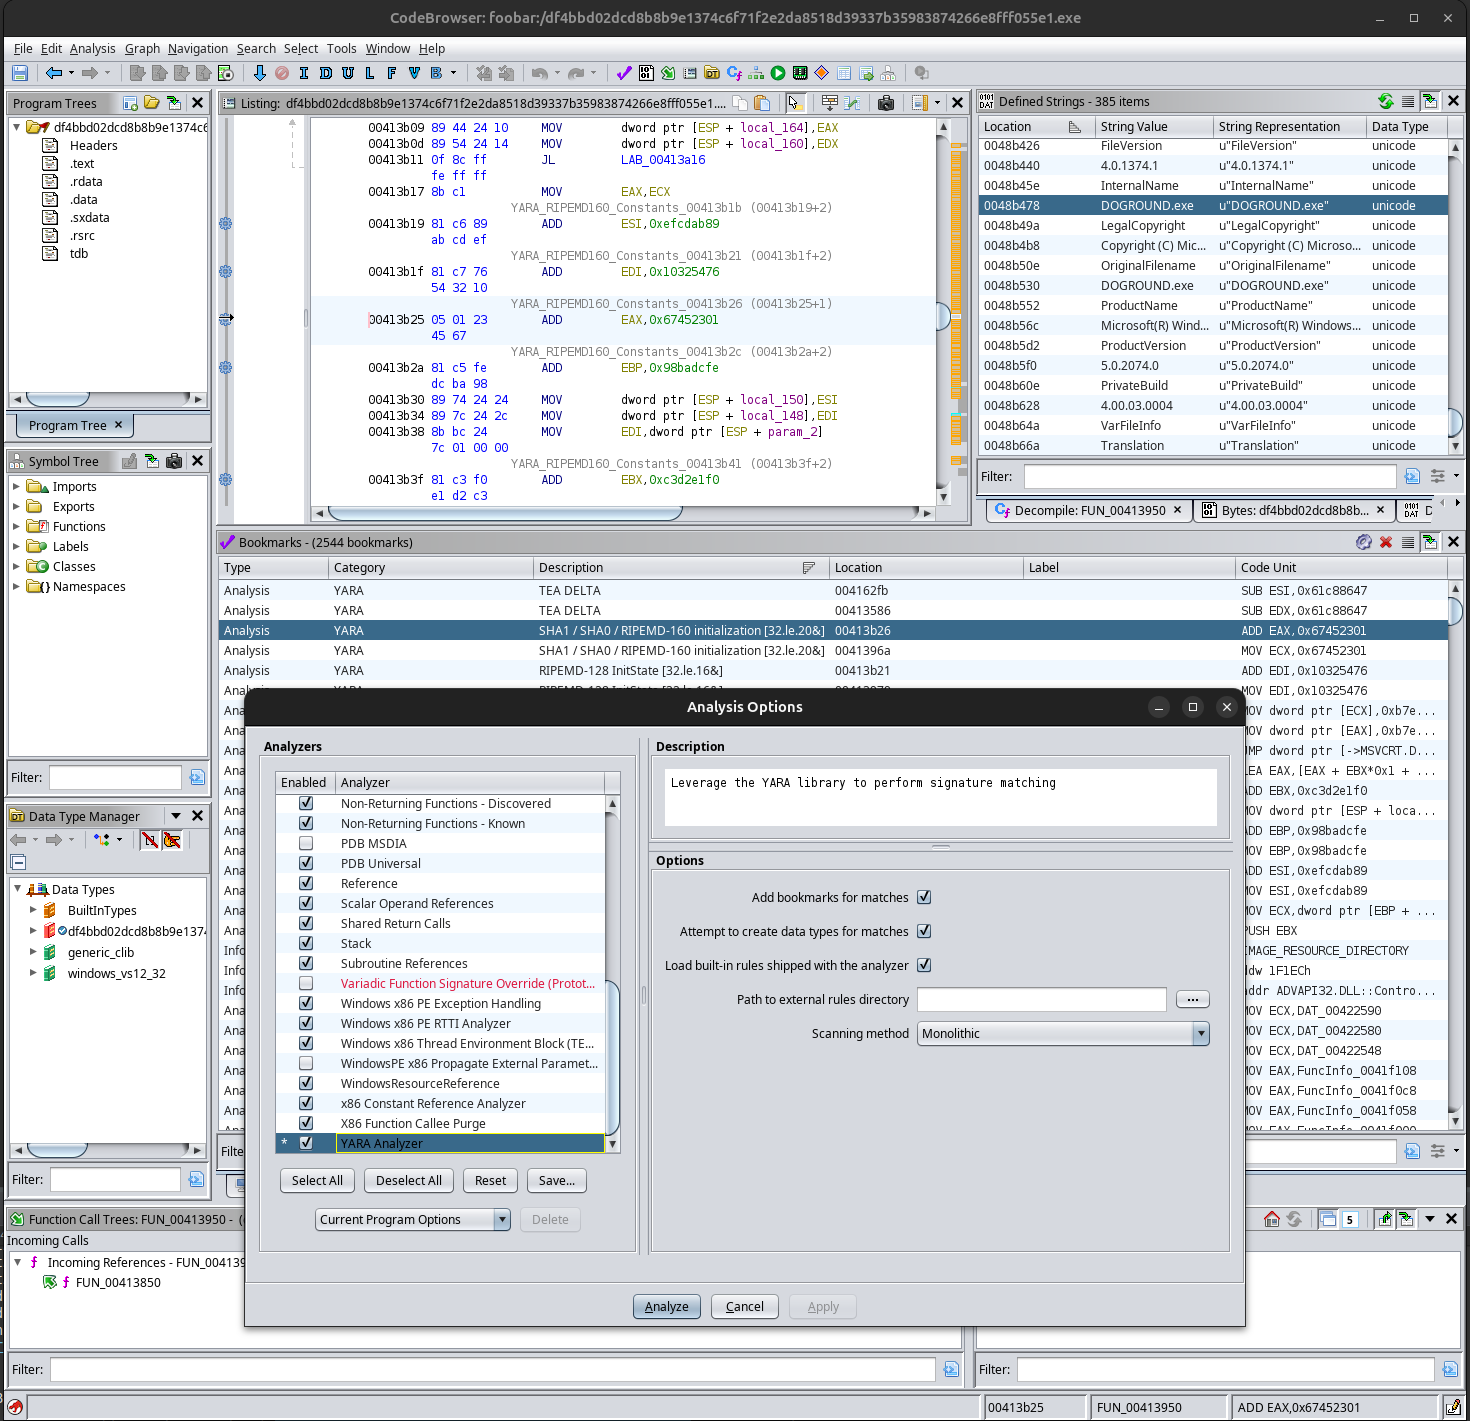
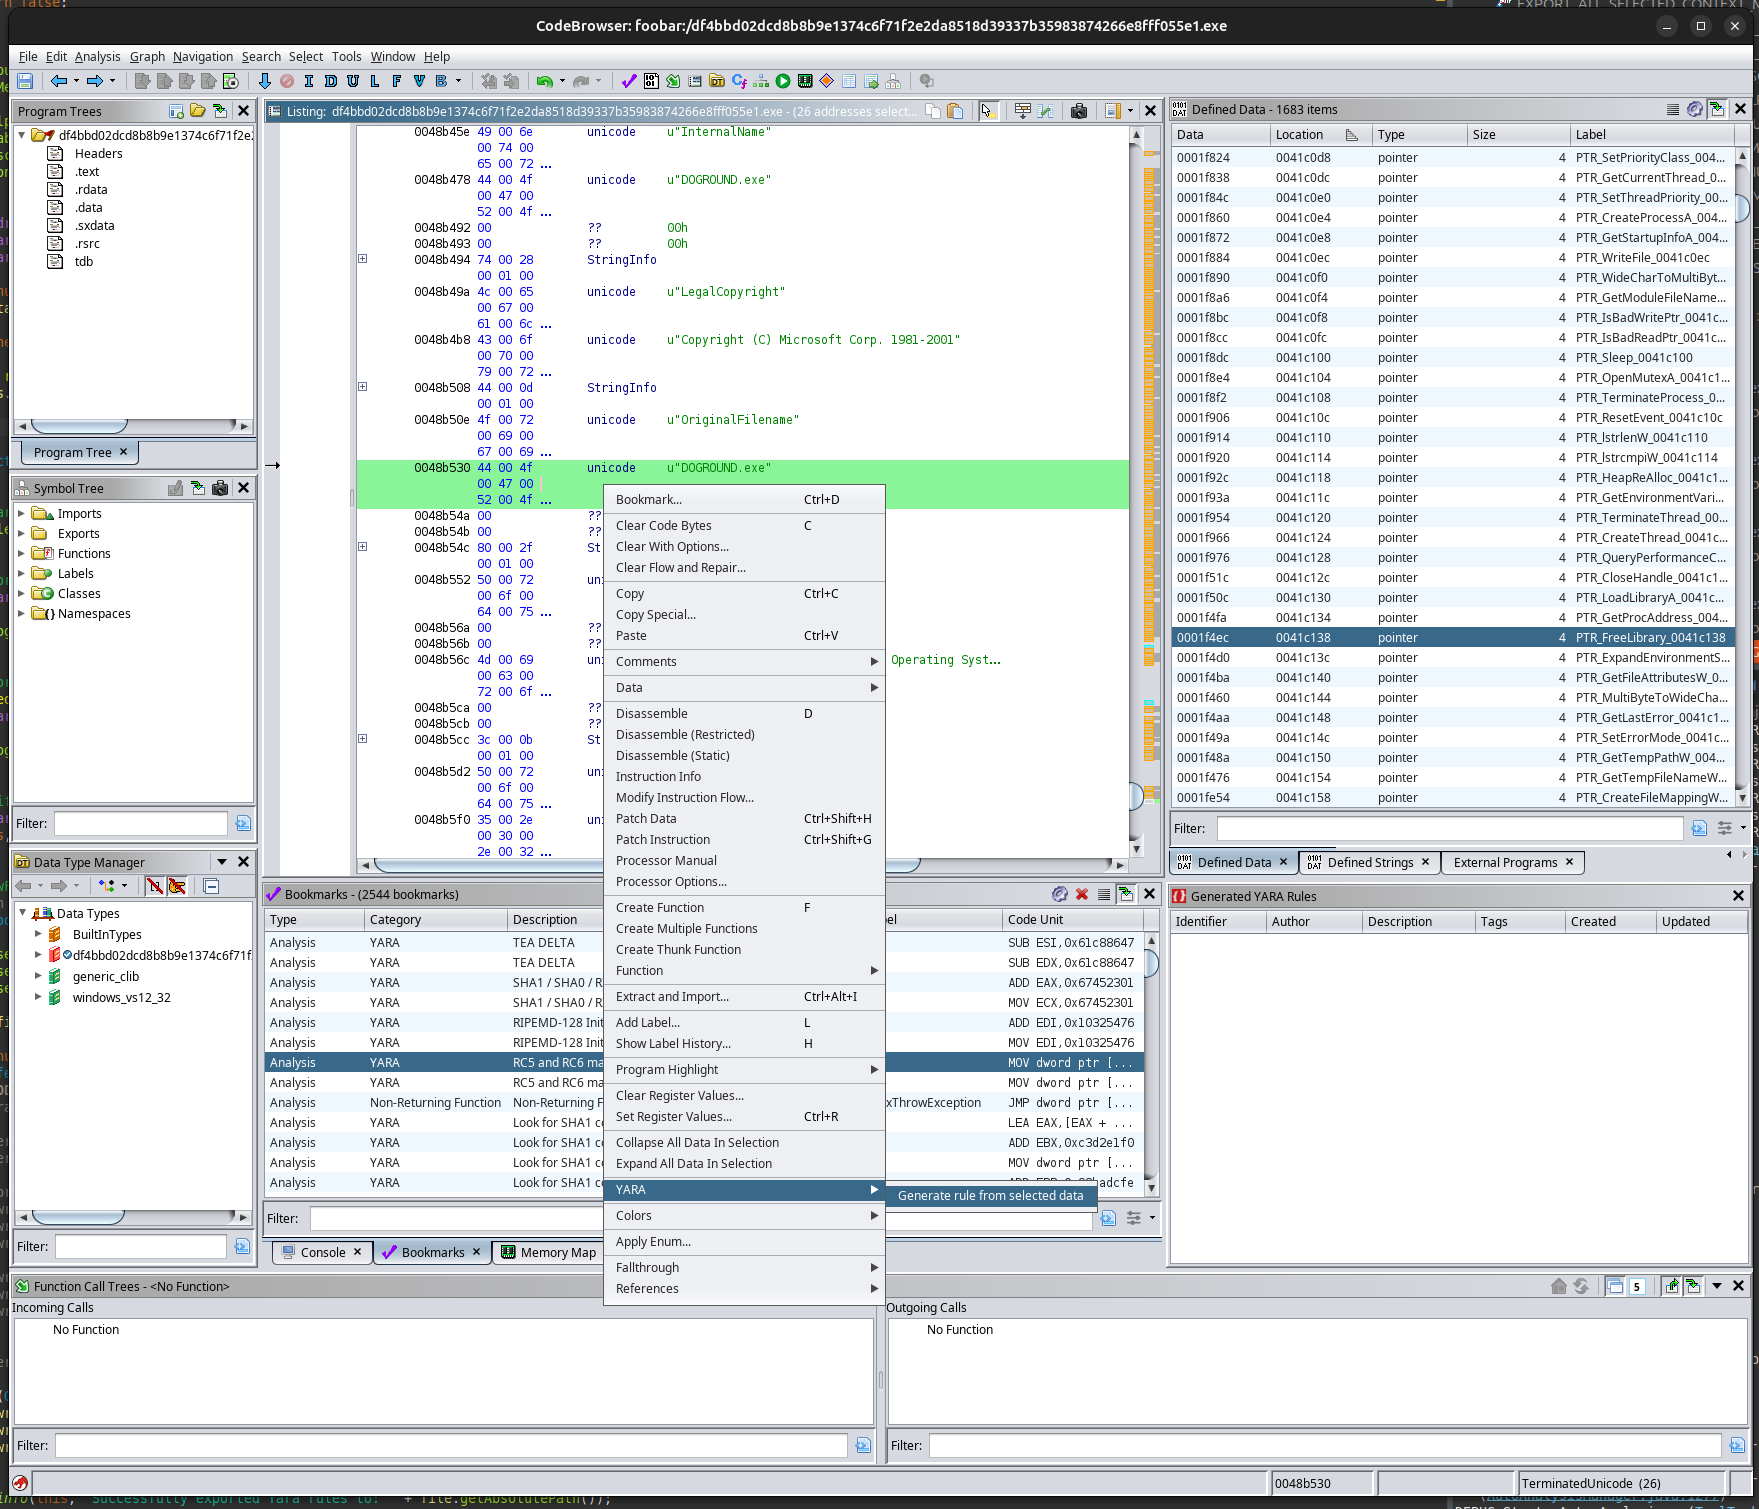
Revised README.md

diff --git a/README.md b/README.md
@@ -1,21 +1,29 @@
-# Ghidra_YARA
+# GhidraYara
+
+> **Finally YARA for Ghidra without the suck!**
 
 ![Screenshot](images/screenshot_1.png)
+![Screenshot](images/analysis_bookmarks.png)
 
 ## Introduction
 
 This is an extension providing an Analyzer for Ghidra integrating the YARA engine (via `yara-java`
-bindings) directly in the analysis process.
+bindings) directly in the analysis process, as well as YARA generation and management capabilities
+throughout the Ghidra toolkit.
 
 Until now, Ghidra users interested in leveraging YARA signature detection needed to resort to
 scripting or out-of-band solutions. With this extension, the entire process can be configured per-program
 and executed within the existent analysis workflow, automatically or manually, making the YARA
-engine a first-class citizen in the process.
+engine a first-class citizen in the process. The same can be said for rule generation and testing.
 
 **This extension is still in development.** It is fully functional, but should be considered
 experimental.
 
 ## Highlights
+
+### Scanning (signature matching)
+
+![Screenshot](images/analyzer.png)
 
  - Can operate in monolithic or block-based scanning mode: the former loads the entirety of the program in contiguous memory (coalescing the initialized memory blocks), while the latter will iterate through each block independently.
  - High performance: typical sub-second completion times even with dozens of thousands of non-optimized rules loaded.
@@ -26,6 +34,24 @@ experimental.
  - Fully integrated in the analysis workflow.
  - Automatic labeling and creation (avoiding conflicts) of data types matching the exact size of the detected signature.
      - For example, CRC lookup tables can be fully recovered, labeled and typed correctly.
+
+### Rule generation and testing
+
+![Screenshot](images/rule_management.png)
+
+ - Rules can be generated from code or data selections, directly through contextual actions.
+ - Management of rules can be done with real-time updates in an integrated table.
+ - Rules can be exported to the file-system.
+ - Individual selection for all operations, including verification.
+
+## Planned features and work in progress
+
+Currently the following features are work-in-progress or planned for future inclusion:
+
+ - Integrated svae/restore functionality with the ProgramDB for generated rules.
+ - Intra-program rule verification and matching.
+ - Advanced rule generation using biclustering.
+     - Based off the work from Edward Raff, Richard Zak, Gary Lopez Munoz, et al. ("Automatic Yara Rule Generation Using Biclustering", [https://arxiv.org/abs/2009.03779](https://arxiv.org/abs/2009.03779))
 
 ## Curated rule sets
 
@@ -42,7 +68,7 @@ as found in many public repositories, are practically useless, and usually creat
 also applies to rules attempting to detect compiler toolchains (as opposed to, say, packers).
 
 Examples of good targets for rules to use with Ghidra:
- 
+
  - URLs, API tokens, and other potential *secrets*.
  - S-Boxes, initialization vectors and constants, multiplication constants.
  - Error correction tables.
